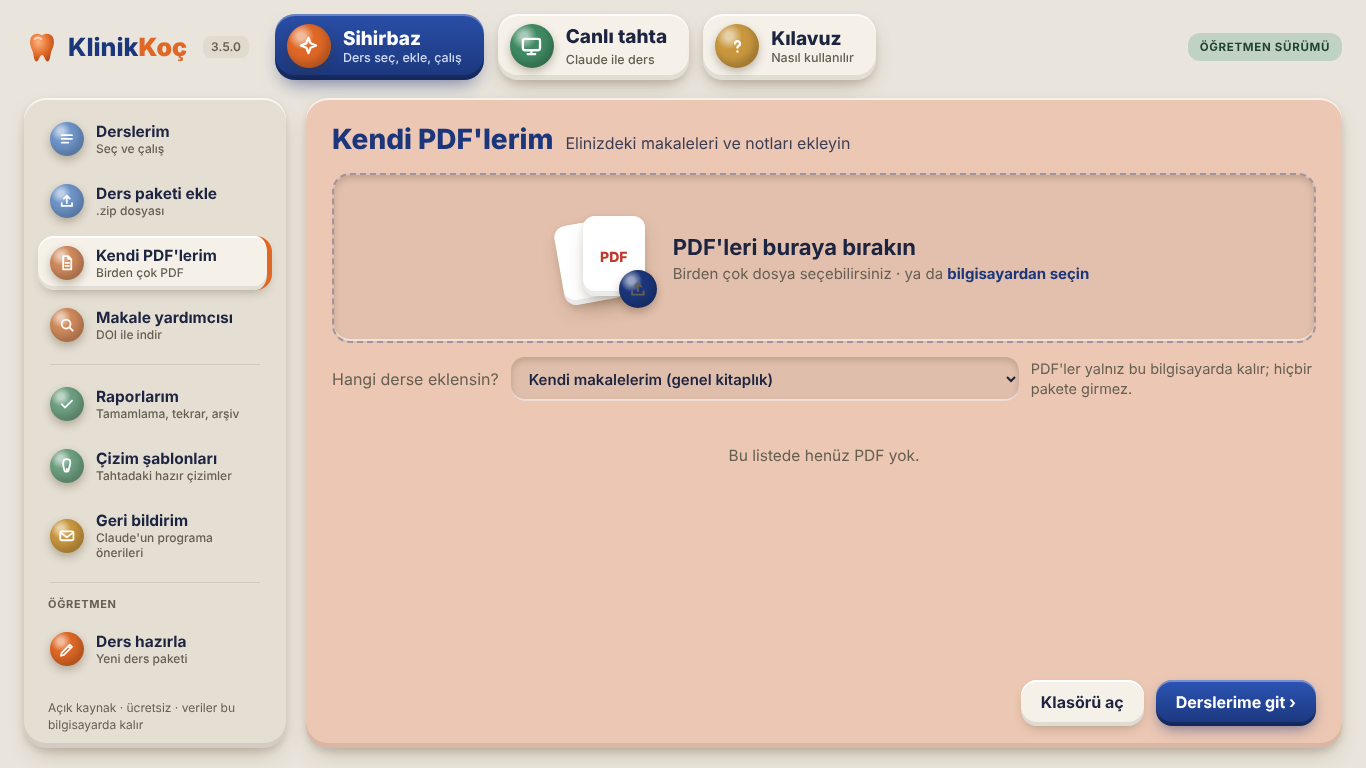
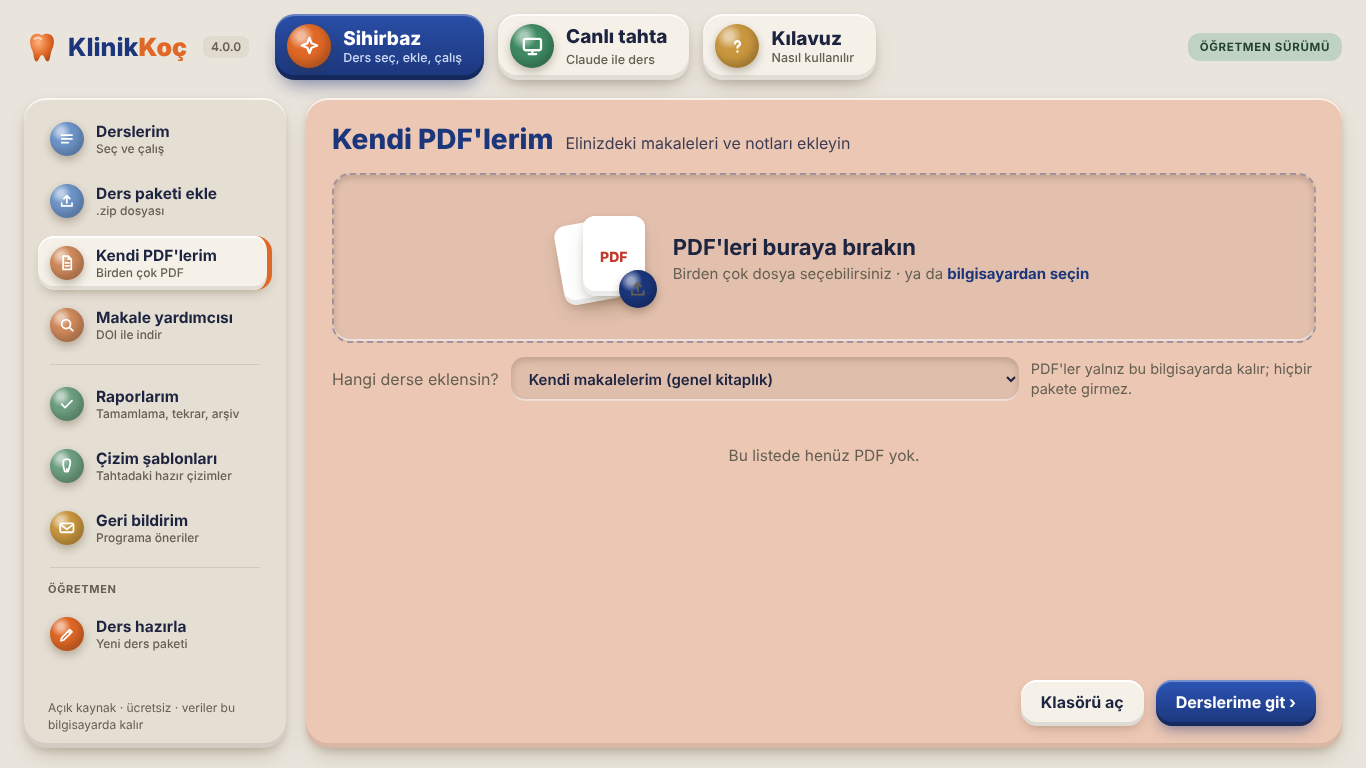
4.0.0: yeni tasarım sürümü (ana ekran, iki sürüm, tek tuşla güncelleme, kil görünümlü tahta)
Sürüm numarası 4.0.0 oldu; kılavuzdaki ekran görüntüleri yeni tahta renkleriyle yenilendi.

Claude-Session: https://claude.ai/code/session_019DsbJUCE8VnqzbwjaDpmbq

diff --git a/kilavuz.html b/kilavuz.html
@@ -25,7 +25,7 @@
       <h2>İçindekiler</h2>
       <ol>
         <li><a href="#nedir">KlinikKoç nedir?</a></li>
-        <li><a href="#yeni">Yeni ana ekran (3.5.0)</a>
+        <li><a href="#yeni">Yeni ana ekran (sürüm 4)</a>
           <ol>
             <li><a href="#yeni-ana">Ana ekran ve üç büyük düğme</a></li>
             <li><a href="#yeni-sec">Ders ya da PDF seçip çalışmak</a></li>
@@ -90,8 +90,8 @@
       </section>
 
       <section id="yeni">
-        <h2>Yeni ana ekran (3.5.0)</h2>
-        <p>3.5.0 sürümüyle KlinikKoç tek bir ana ekranla açılır. Aşağıdaki bölümlerde eski görünümden kalma ekran
+        <h2>Yeni ana ekran (sürüm 4)</h2>
+        <p>4. sürümle KlinikKoç tek bir ana ekranla açılır. Aşağıdaki bölümlerde eski görünümden kalma ekran
           görüntüleri de vardır; düğmelerin adı ve yaptıkları aynıdır, yalnız yerleri bu ana ekrana taşınmıştır.</p>
 
         <h3 id="yeni-ana">Ana ekran ve üç büyük düğme</h3>
@@ -140,7 +140,7 @@
         </figure>
 
         <h3 id="yeni-tahta">Canlı tahtanın yeni düzeni</h3>
-        <p>Çizim alanı büyüsün diye üst çubuk inceldi ve alttaki bütün düğmeler tek satıra indi. Eski düğmelerin hepsi yerindedir.</p>
+        <p>Çizim alanı büyüsün diye üst çubuk inceldi ve alttaki bütün düğmeler tek satıra indi. Çerçeve ve düğmeler ana ekranla aynı görünümdedir; çizim alanı koyu mavidir. Eski düğmelerin hepsi yerindedir.</p>
         <figure class="kl-sekil">
           <img src="belgeler/kilavuz/yeni-5-canli-tahta.png" width="900" height="506" loading="lazy"
                alt="Canlı tahta: ince üst çubuk, geniş çizim alanı, altta tek satır düğmeler ve altyazı">
@@ -461,7 +461,7 @@
         </figure>
 
         <h3 id="sihirbaz-adimlar">Dokuz adım</h3>
-        <p>3.5.0 ile adımlar solda bir liste olarak durur; birine basınca yalnız sağdaki bölüm değişir, tamamlanan adım
+        <p>4. sürümle adımlar solda bir liste olarak durur; birine basınca yalnız sağdaki bölüm değişir, tamamlanan adım
           yeşil işaret alır. Sıra şöyledir: 1 Ders kartı, 2 Makaleler, 3 Ders notu ve vakalar, 4 Hedefler ve önemli noktalar,
           5 Çizim ve animasyonlar, 6 Videolar ve YouTube, 7 Sorular, 8 Öneriler ve onay, 9 Denetle ve paketle.
           Aşağıdaki görüntülerin bir kısmı eski görünümdendir; alanlar aynıdır.</p>

diff --git a/config.js b/config.js
@@ -2,7 +2,7 @@
 window.AT = window.AT || {};
 window.AT.config = {
   appName: 'KlinikKoç',
-  version: '3.5.0',  // kök klasördeki SURUM dosyasıyla aynı olmalı (testler denetler)
+  version: '4.0.0',  // kök klasördeki SURUM dosyasıyla aynı olmalı (testler denetler)
   // Canlı soru-cevabın başlangıç ayarları (bkz. js/qa/qa.js). Öğrenci Ayarlar'dan değiştirebilir.
   // API anahtarı buraya YAZILMAZ; her kullanıcı kendi anahtarını uygulamada girer.
   // Örn. fakültede Ollama sunucusu varsa: defaults: { mode: 'local', baseURLs: { ollama: 'https://sunucu.ornek' } }
